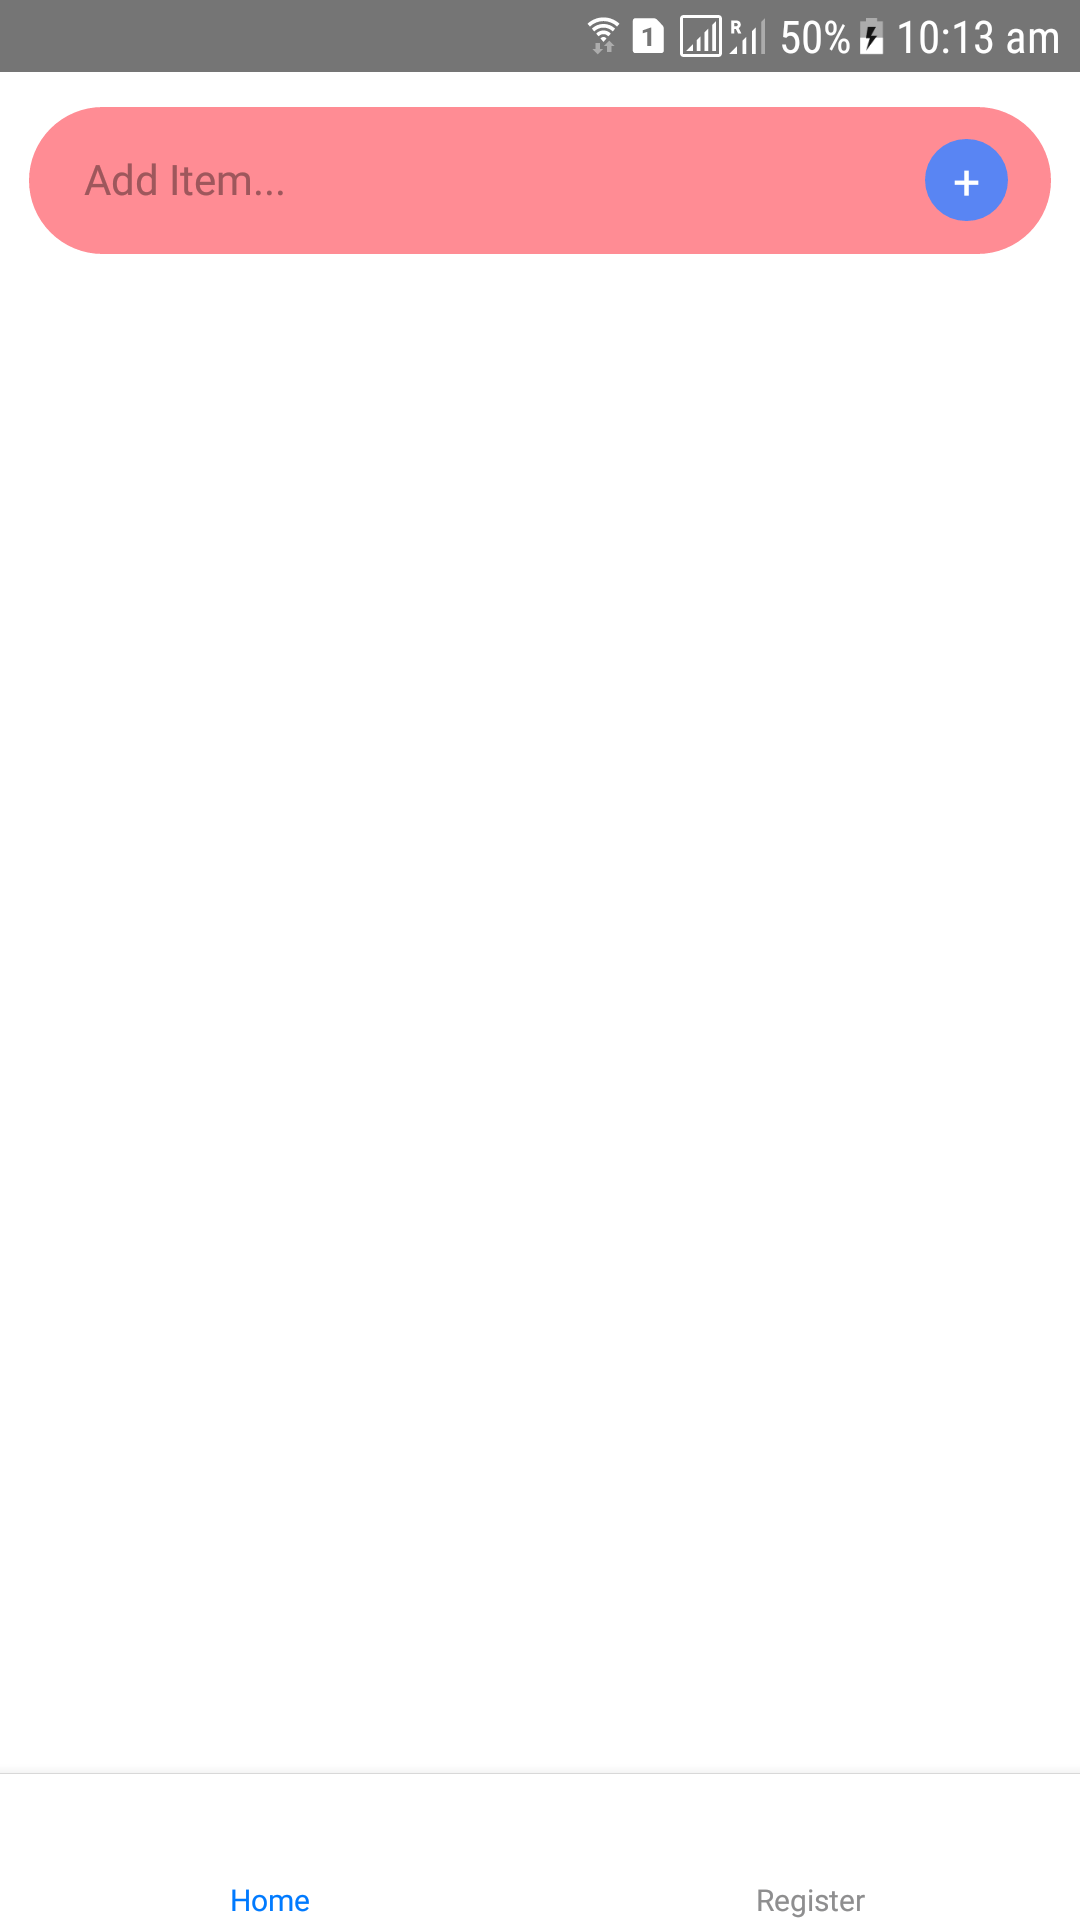
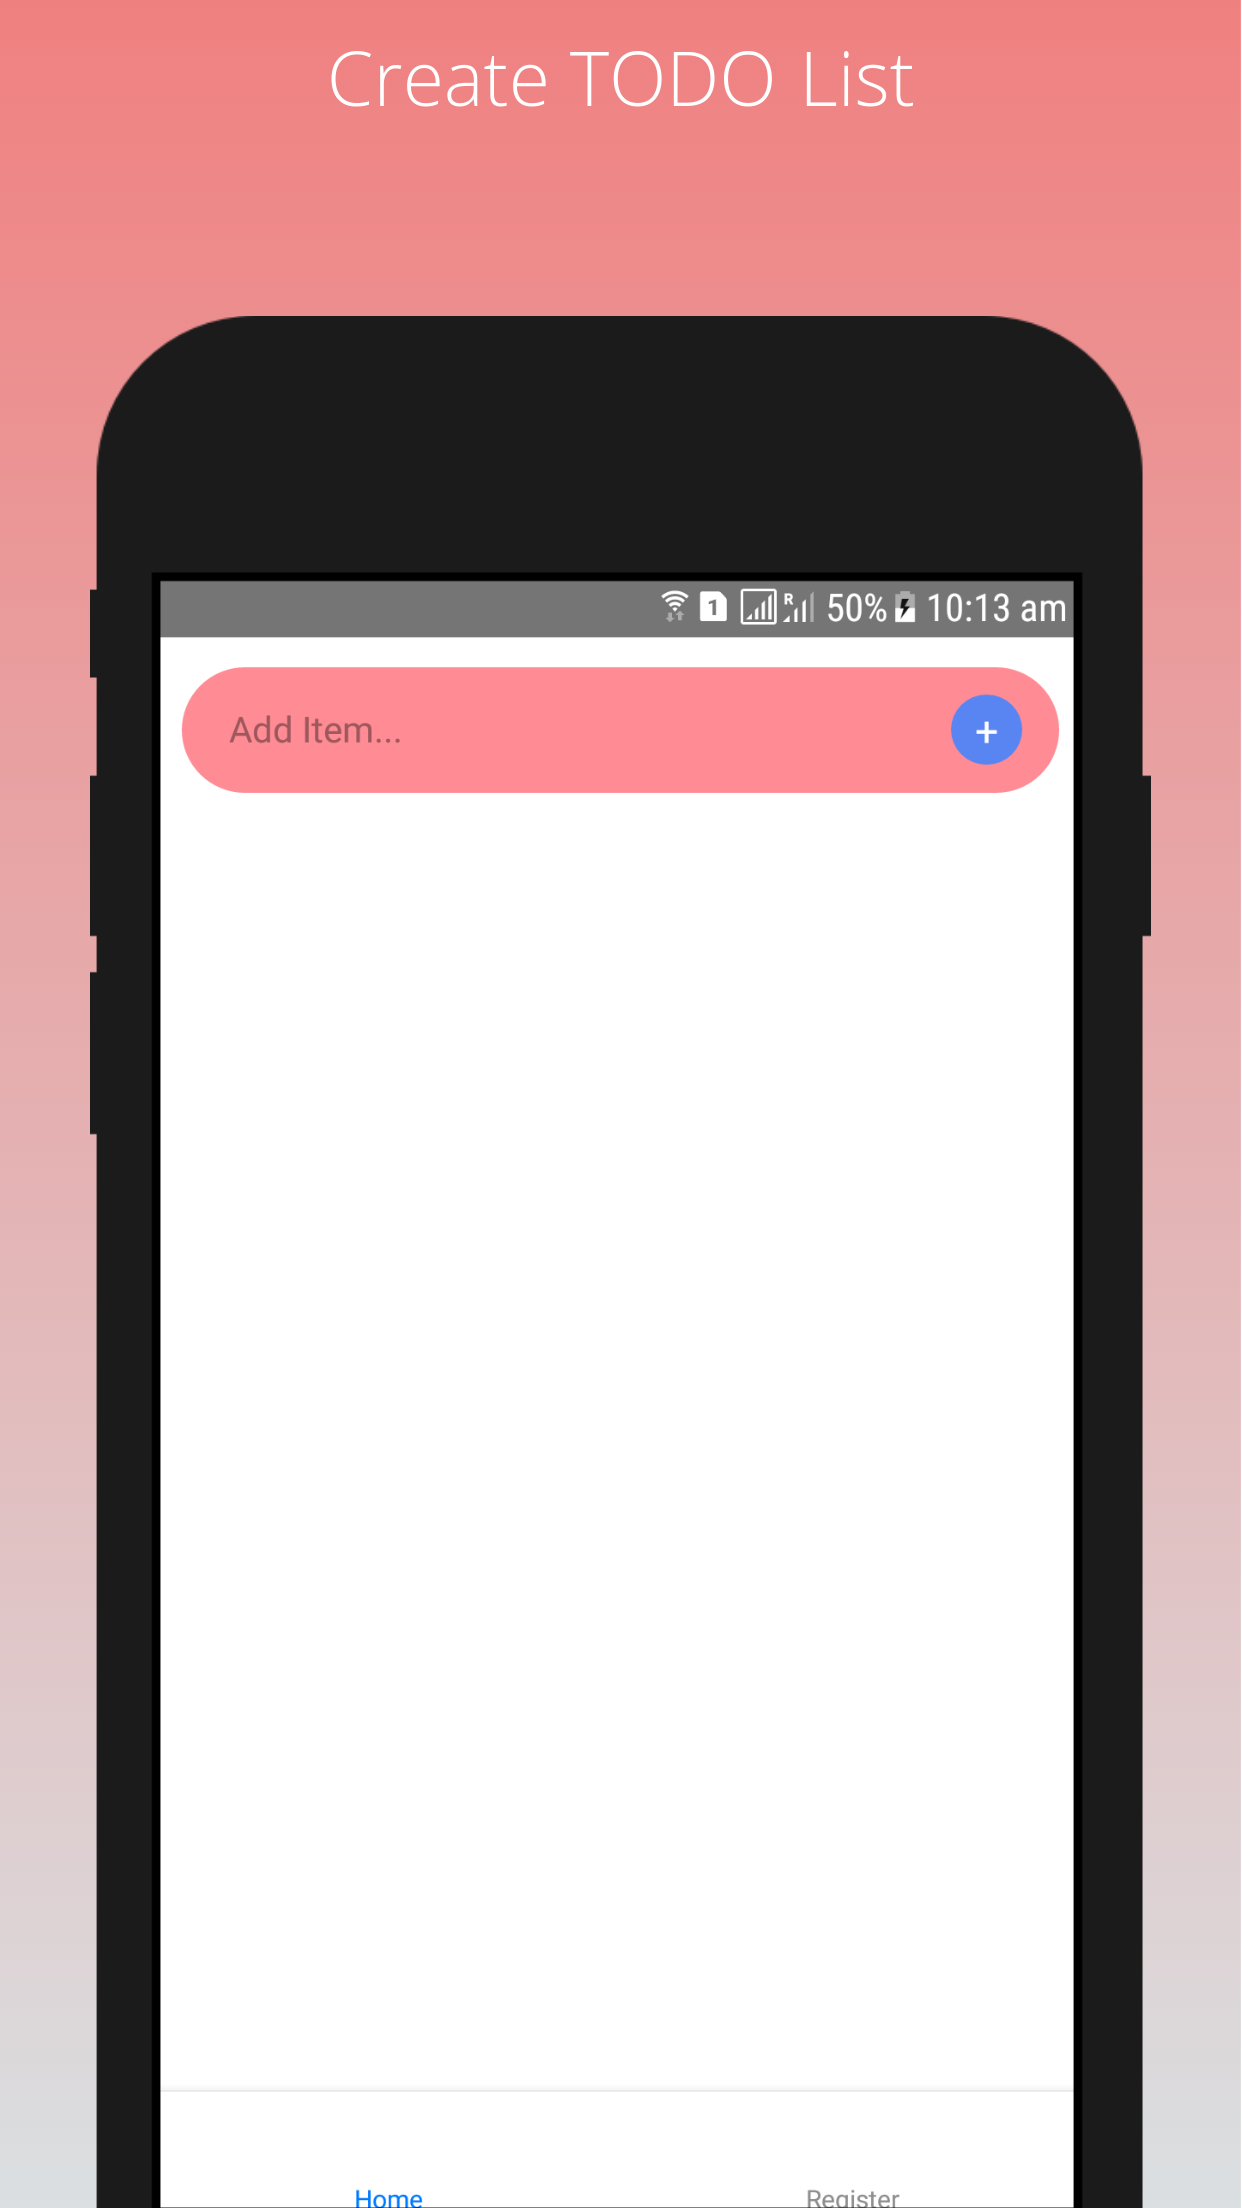
Change images in README

diff --git a/README.md b/README.md
@@ -6,7 +6,8 @@ Application tested only on Android but should run on IOS platform also. Mainly c
 
 
 ## Installation and usage
-
+    $ git clone https://github.com/janaka120/ReactNativeTestingExamples.git
+    $ cd ReactNativeTestingExamples
     $ npm install
 
     All jest tests:
@@ -22,6 +23,13 @@ Application tested only on Android but should run on IOS platform also. Mainly c
 - [react-test-renderer](https://reactjs.org/docs/test-renderer.html)
 - [fetch-mock](https://www.npmjs.com/package/fetch-mock)
 
+
 ## App UIs
 
-![Image of Yaktocat](/src/assets/images/login-img.png) ![Image of Yaktocat](/src/assets/images/home-img.png) ![Image of Yaktocat](/src/assets/images/register-img.png)
+![Image of Yaktocat](/src/assets/images/main-img.png)
+
+## Features
+
+- Login
+- Add Item list screen
+- Register
